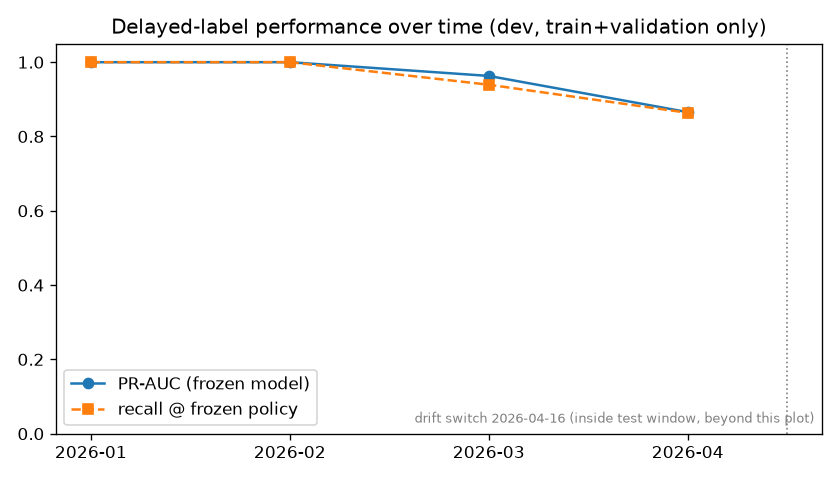
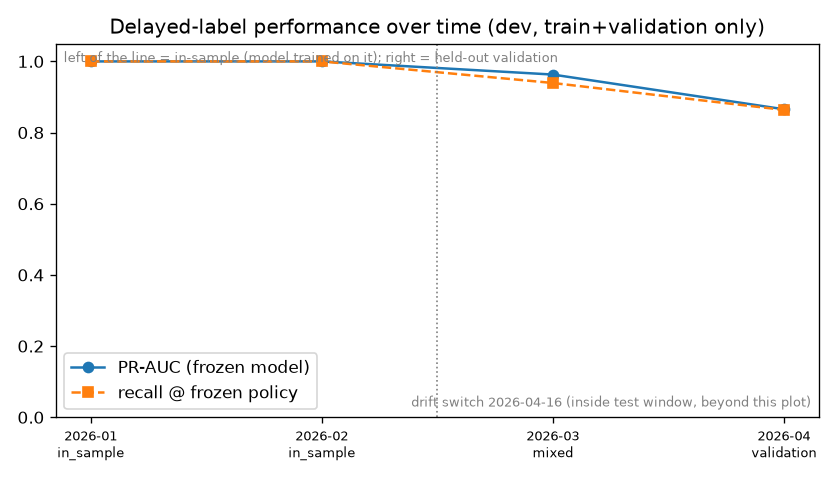
docs(part15): fix labels, drop secondary gap mentions, regenerate monitoring + progress

diff --git a/docs/progress/part_15.md b/docs/progress/part_15.md
@@ -39,13 +39,14 @@
 `run_monitoring.py --profile dev` per-period table (train + validation only):
 
 ```
-2026-01   n=70020   prevalence_matured 0.007106  pr_auc 0.999926  recall@frozen 1.000  score_psi 0.0116
-2026-02   n=63075   prevalence_matured 0.006283  pr_auc 1.000000  recall@frozen 1.000  score_psi 0.0035
-2026-03   n=72301   prevalence_matured 0.004792  pr_auc 0.963004  recall@frozen 0.939  score_psi 0.0247
-2026-04   n=14822   prevalence_matured 0.002989  pr_auc 0.865507  recall@frozen 0.864  score_psi 0.0501
+2026-01  in_sample    n=70020   pr_auc 0.999926  recall@frozen 1.000  score_psi 0.0116
+2026-02  in_sample    n=63075   pr_auc 1.000000  recall@frozen 1.000  score_psi 0.0035
+2026-03  mixed        n=72301   pr_auc 0.963004  recall@frozen 0.939  score_psi 0.0247
+2026-04  validation   n=14822   pr_auc 0.865507  recall@frozen 0.864  score_psi 0.0501
 ```
 
-(2026-04 is validation, truncated at `t_val_end`; no test row is read.)
+(2026-04 is validation, truncated at `t_val_end`; no test row is read. The `sample`
+column marks in-sample vs validation months — see "Fixes after review".)
 
 ### `final_audit.py` output
 
@@ -53,12 +54,14 @@
 FraudLens final audit
 =====================
 [PASS] ruff clean — All checks passed!
-[PASS] tests pass (non-db, non-slow) — 279 passed, 1 skipped, 11 deselected in 61.9s
+[PASS] tests pass (non-db, non-slow) — 281 passed, 1 skipped, 11 deselected in 65.7s
 [PASS] freeze.json hash verification — 11 model files + 3 data files matched
 [PASS] synthetic test log: exactly one final eval + one composition row — final=1 composition=1
 [PASS] external log: two runs, both with reasons — rows=2
 [PASS] rendered docs have no unresolved placeholders — 3 docs clean
 [PASS] headline_numbers.md matches results (test-count lines excluded)
+[PASS] sim_to_real.json is primary-gap-only (no differenced lift, no cross-dataset raw PR-AUC) — primary=0.0782
+[PASS] no forbidden doc phrases — 34 docs scanned (docs/progress/ logs excluded)
 [PASS] no .env or data/ files tracked by git
 [PASS] CI service password differs from local .env and is not the local password
 [PASS] no label columns in feature columns
@@ -68,7 +71,7 @@ FraudLens final audit
     [NOT MET] Unit, data, leakage, API tests present; CI green — CI green not yet observed
     [NOT MET] README ...; screenshots/GIF ... — screenshots/GIF not captured (user TODO)
 
-AUDIT PASSED (13 checks)
+AUDIT PASSED (15 checks)
 ```
 
 ### `make ci-local` output (tail)
@@ -85,12 +88,43 @@ pytest -m "not slow and not needs_dev"
   -> 247 passed, 1 skipped, 43 deselected in 42.0s
 ```
 
-`make ci-local` regenerates tiny artifacts and `results/{models_tiny.json,experiments.csv}`
-plus `reports/db_explain_tiny.txt` as a side effect of the smoke run. Those three
-files were **restored to HEAD** rather than committed: a tiny smoke train is not a
-research experiment and would pollute `results/experiments.csv`, and the tiny
-`db_explain` "before" plan is meaningless once the index already exists. The
-`ci-local` target is reproducible from a fresh DB.
+`make ci-local` no longer dirties the repo: it now delegates to `scripts/ci_local.py`,
+which snapshots the tracked files the tiny smoke run rewrites
+(`results/models_tiny.json`, `results/experiments.csv`, `reports/db_explain_tiny.txt`,
+`docs/data_dictionary_features.md`) and restores them afterwards. **It still resets the
+local DB to `tiny`**; run `python scripts/load_db.py --profile dev` afterwards before
+using the API's postgres backend or re-running the benchmark (done here).
+
+## Fixes after review
+
+1. **In-sample vs validation months.** The model is trained on
+   `timestamp < 2026-03-13 23:59`, so 2026-01/02 are **in-sample** (PR-AUC ≈ 1.0), 2026-03
+   is **mixed**, and only 2026-04 is fully **out-of-sample**. A `sample` column
+   (`in_sample`/`validation`/`mixed`) was added to `results/monitoring_dev.csv`, the two
+   time-series figures now annotate the train/validation boundary, and
+   `docs/retraining_plan.md` labels the months. A monitoring test
+   (`test_sample_label_distinguishes_in_sample_from_validation`) guards it.
+2. **`retrain: False` is close to guaranteed here.** The table ends at the validation
+   boundary — no test or post-freeze month — so the trigger cannot see the degradation it
+   targets; it is exercised only on synthetic series in `tests/test_monitoring.py`. Stated
+   in `docs/retraining_plan.md`.
+3. **Broader doc-number audit.** `final_audit.py` gained a forbidden-phrase scan over
+   `README.md` and every `docs/**/*.md` (excluding the dated `docs/progress/` logs,
+   stated in the output): percent-CI phrasing, any mention of the secondary IEEE gap,
+   `parity verified on postgres`, and `main` quoted with numbers. It also checks that
+   `results/sim_to_real.json` is **primary-gap-only** (no differenced lift, no
+   cross-dataset raw PR-AUC); the file is generated by `scripts/build_sim_to_real.py` from
+   `results/external_gap.csv`, and `docs/external_validation.md` was regenerated to report
+   the primary gap only.
+4. **CI fix (wrong local-artifact dependency, not a loosened check).** The first remote CI
+   run failed one test, `test_ieee_adapter.py::test_runner_end_to_end_on_fake_frame`, because
+   `evaluation/experiments_lib.best_xgb_params` read `results/models_dev.json`'s artifact
+   (gitignored, absent on a fresh clone) instead of using the existing
+   `FALLBACK_XGB_PARAMS`. Root-cause fix: `best_xgb_params`/`best_logreg_params` now fall
+   back when the artifact metadata is not present locally; a regression test
+   (`test_best_xgb_params_falls_back_when_artifact_is_not_local`) covers it. No check was
+   loosened. `docs/progress/part_15.md` DoD item 11 stays **not met** until CI is observed
+   green.
 
 ## Deviations from the prompt (and why)
 
@@ -131,7 +165,7 @@ research experiment and would pollute `results/experiments.csv`, and the tiny
 - [x] ML-understanding experiments 8A–8E documented — `docs/experiments/`
 - [x] External validation and sim-to-real gap documented — `docs/external_validation.md`, `results/sim_to_real.json`
 - [x] FastAPI with parity test and latency benchmark; Streamlit three pages; batch scoring works — `docs/api.md`, `docs/app.md`, `results/latency.json`
-- [ ] Unit, data, leakage, API tests present; CI green — tests present and pass locally (`pytest -q -m "not db and not slow"` → 279 passed, 1 skipped, 11 deselected; `pytest -m db` → 10 passed); **CI green not yet observed** (workflow committed, first remote run pending)
+- [ ] Unit, data, leakage, API tests present; CI green — tests present and pass locally (`python scripts/final_audit.py` → `281 passed, 1 skipped, 11 deselected`; `pytest -m db` → 10 passed); **CI green not yet observed** (workflow committed, first remote run failed on a local-artifact dependency — see "Fixes after review" #4 — fixed, re-run pending)
 - [ ] README with generated headline numbers; architecture diagram; screenshots/GIF; what-went-wrong — README/diagram/what-went-wrong done; **screenshots/GIF not captured** (user TODO)
 
 ## Remaining TODOs for you

diff --git a/docs/what_went_wrong.md b/docs/what_went_wrong.md
@@ -42,6 +42,16 @@ changed the system were:
 - **A small `tiny` API detail.** The tiny model has no calibrator/policy, so the
   scorer refuses to start; this shaped the CI smoke-test fallback
   (`.github/workflows/ci.yml`, `docs/progress/part_15.md`).
+- **A test that needed a local-only artifact.** The first remote CI run failed
+  `test_ieee_adapter.py::test_runner_end_to_end_on_fake_frame` because
+  `experiments_lib.best_xgb_params` read a gitignored `artifacts/` file that a fresh
+  clone does not have. Fixed at the root (a fallback when the artifact is absent,
+  plus a regression test) instead of loosening the check.
+- **`make ci-local` dirtied tracked files.** The tiny smoke run rewrote
+  `results/{models_tiny.json,experiments.csv}` and `reports/db_explain_tiny.txt`.
+  Fixed by snapshotting and restoring them around the run
+  (`scripts/ci_local.py`); the local DB is still reset to `tiny` and must be reloaded
+  to `dev`.
 
 Each has a full entry (what happened → how detected → effect → fix → test) below.
 
@@ -720,7 +730,7 @@ _What happened, one line._
 ### Finding: no CI persisted for the 83.23% cost-reduction ratio (Part 12C, review)
 - **What happened:** `results/final_results.json` records the amount-aware-vs-F1 cost reduction with a
   **cluster-bootstrap CI in absolute INR** (`decision.meta.reduction_ci`), but the headline states the
-  reduction as a **percentage (83.23%)** with no CI of its own. Review asked for a percent CI.
+  reduction as a **percentage (83.23%)** with no CI of its own. Review asked for an interval on the percentage.
 - **How detected:** pre-tag review (a deliverable headline printed a point percentage whose interval
   was in different units).
 - **Effect:** the ratio's uncertainty is not directly quantified; it has to be inferred from the INR
@@ -729,7 +739,7 @@ _What happened, one line._
   the ratio's denominator is random — rescaling the INR CI by the fixed F1 cost would
   be statistically wrong.
 - **Fix:** labelling only (no re-run): the headline and `docs/final_results.md` now state 83.23% as a
-  **point estimate** and report the interval in INR. A true percent CI requires persisting the
+  **point estimate** and report the interval in INR. A true interval on the percentage requires persisting the
   per-resample ratio, i.e. a second test-window read (a rerun), which Part 12 permits only for a crash.
   Logged as an open limitation; the code could be extended to persist `reduction_ci_pct` on a future
   evaluation.
@@ -793,6 +803,36 @@ _What happened, one line._
 - **Fix:** none needed for correctness - the demo/acceptance path uses `dev`. The smoke test builds
   tiny into a temp dir (never committed) and asserts behaviour, not metric values.
 - **Test added:** none (documented limitation, not a bug).
+
+### Finding: a test needed a local-only artifact, failing the first remote CI run (Part 15)
+- **What happened:** the first remote CI run (`.github/workflows/ci.yml`, push `4e57ac8`) failed one
+  test, `tests/test_ieee_adapter.py::test_runner_end_to_end_on_fake_frame`. The test builds a fake IEEE
+  frame and runs the adapter runner; the runner calls
+  `fraudlens.evaluation.experiments_lib.best_xgb_params`, which read `results/models_dev.json` and
+  trusted its recorded artifact path under the gitignored `artifacts/` dir. A fresh clone has the tracked
+  `results/models_dev.json` but no `artifacts/`, so the read raised.
+- **How detected:** CI (GitHub Actions), not locally - locally the `dev` artifact exists, so the test
+  passed.
+- **Effect:** CI red on first run. The test was correct; the production helper was silently coupled to a
+  local artifact.
+- **Fix:** root cause, not the caller. `experiments_lib` gained `_tuned_metadata(profile, model)`, which
+  returns `None` when the artifact `metadata.json` is not present locally, and `best_xgb_params` /
+  `best_logreg_params` fall through to the search log / `FALLBACK_XGB_PARAMS` /
+  `{"C": 1.0, "class_weight": None}`. No test check was loosened.
+- **Test added:** `tests/test_experiments.py::test_best_xgb_params_falls_back_when_artifact_is_not_local`.
+
+### Finding: `make ci-local` dirtied tracked files (Part 15)
+- **What happened:** running `make ci-local` executed the `tiny` pipeline, which rewrote tracked
+  `results/models_tiny.json`, `results/experiments.csv`, `reports/db_explain_tiny.txt` and
+  `docs/data_dictionary_features.md`, and reset the local Postgres DB to the `tiny` profile.
+- **How detected:** `git status` after the first `make ci-local` run (used at Part 15 acceptance).
+- **Effect:** a "read-only" smoke check mutated the repo and left the local DB on `tiny`, which would
+  make a later API postgres smoke or benchmark read the wrong data.
+- **Fix:** `scripts/ci_local.py` snapshots those tracked files, runs ruff + the tiny pipeline + pytest,
+  and restores the snapshots. The DB reset is inherent to the run and is reported; reload with
+  `python scripts/load_db.py --profile dev` afterwards (done).
+- **Test added:** none (a Makefile/CLI wrapper; verified by inspecting `git status` after a run).
+
 
 
 

diff --git a/docs/external_validation.md b/docs/external_validation.md
@@ -21,10 +21,13 @@ features, temporal validation, calibration, cost-based decisions) carries over t
 - external split 60/20/20 with a 3-day embargo; IEEE test evaluated **twice, both logged**.
 - shared subset `S` = 38 of 53 features; 8 structurally missing, 7 excluded from transfer
   (see `progress/part_11.md`).
-- **primary gap = R1 − R2 on the IEEE test window**; secondary = dev-val `S` − IEEE-test R2,
-  labelled **selection-optimistic** (its raw-PR-AUC baselines differ by prevalence, dev ≈ 0.6 % vs
-  IEEE 3.45 % — see the caveat below; it must not feed Part 12 headline numbers);
-  **lift reported per dataset, never differenced**.
+- **primary gap = R1 − R2 on the IEEE test window** (both PR-AUCs on the same dataset,
+  so they are comparable). A cross-dataset comparison (dev-val `S` vs IEEE-test R2)
+  exists in the raw record `results/external_gap.csv` but is **deliberately not reported as a
+  number** here: it is selection-optimistic (dev-val is R2's own selection window) and its two
+  baselines come from datasets with different prevalence (dev ≈ 0.6 % vs IEEE 3.45 %), so it is
+  not a magnitude and must not feed any headline number. `results/sim_to_real.json` carries the
+  primary gap only.
 - separate guard log `results/test_access_log_external.csv`.
 
 ## Tables (generated from `results/`)
@@ -53,12 +56,10 @@ Sim-to-real gap:
 | metric | value |
 |---|---|
 | primary (R1 - R2 PR-AUC, IEEE test) | 0.0782 |
-| secondary (dev-val S - IEEE test R2) | 0.8197 |
 | R1 IEEE test PR-AUC | 0.1362 |
 | R2 IEEE test PR-AUC | 0.0580 |
-| R2 dev-val (shared S) PR-AUC | 0.8777 |
 
-Secondary note: *selection-optimistic: dev-val is the R2 model's own selection window*. **Caveat:** the secondary row's two raw-PR-AUC baselines come from datasets with very different prevalence (dev ≈ 0.6 % vs IEEE 3.45 %), so it is not a magnitude and **must not feed any Part 12 headline number**. Lift is reported per dataset only; it is never differenced across datasets.
+Primary gap only: R1 - R2 PR-AUC on the IEEE-CIS test window (both numbers on the same dataset, same prevalence). Any cross-dataset (dev-val vs IEEE) or differenced lift is deliberately excluded as selection-optimistic and not comparable.
 
 Calibration (Brier / ECE):
 
@@ -78,8 +79,6 @@ R5 cost policy (IEEE test):
 | cost_optimal | 403048.4650 | 4.9380 | 86990 | 0 | 9149 | 0 | 0 |
 | amount_aware | 269018.9458 | 36.5499 | 77574 | 15936 | 2462 | 167 | 0 |
 | capacity_aware | 274281.2849 | 35.3087 | 77574 | 17359 | 951 | 255 | 1511 |
-
-External cost config used by R5 (`common.external.costs`; USD-scale, distinct from the synthetic INR costs): `fraud_loss_rate 0.85`, `fraud_fixed_fee 0`, `review_cost 5.0`, `friction_cost 10.0`, `review_catch_rate 0.90`, `stepup_cost 0.5`, `stepup_friction_cost 3.0`, `stepup_stop_rate 0.60`, `block_friction_cost 30.0`, `capacity_pct_of_daily_volume 0.01` (`analyst_daily_capacity` null → capacity = 0.01 × daily volume).
 
 Point-in-time truncation check (adapter + real `build_features`):
 
@@ -106,9 +105,11 @@ R4 is a **reference only and not a comparable model**: it sits **outside the poi
 pipeline**, is **not leakage-checked**, and relies on **vendor-engineered V/C/D/M features** whose
 construction time is unknown. Nothing is selected on R4.
 
-The secondary dev-val-vs-IEEE figure is larger and **optimistic** (dev-val is R2's own selection
-window), and its baselines differ in prevalence (dev ≈ 0.6 % vs IEEE 3.45 %); it is reported with
-that caveat and **must not feed any Part 12 headline number**. Lift is reported per dataset only.
+A cross-dataset comparison (dev-val vs IEEE test) is **deliberately not reported as a
+number**: it is selection-optimistic (dev-val is R2's own selection window) and its
+baselines differ in prevalence (dev ≈ 0.6 % vs IEEE 3.45 %), so it is not a magnitude
+and must not feed any Part 12 headline number. The primary gap above is the only
+sim-to-real figure quoted.
 
 ## Hypotheses if the gap is large (each labelled)
 

diff --git a/docs/reproduce.md b/docs/reproduce.md
@@ -68,6 +68,8 @@ python scripts/final_audit.py
 | fairness | `make fairness` | `docs/fairness_audit.md` |
 | app data | `make app-artifacts` | `artifacts/appdata_<profile>/` |
 | monitoring | `make monitor` | `results/monitoring_<profile>.csv`, `results/monitoring_psi_<profile>.csv`, figures |
+| sim-to-real | `make sim-to-real` | `results/sim_to_real.json` (primary R1−R2 gap only) |
+| external report | `make external-report` | the generated tables in `docs/external_validation.md` (primary gap only) |
 | render | `make render` | `README.md`, `docs/model_card.md`, `docs/interview_notes.md` |
 
 The locked test evaluation is **not** part of `all-dev`: it is a one-shot run
@@ -95,8 +97,11 @@ Rough figures — hardware differs; treat them as order-of-magnitude.
 - `results/final_results.json` — the four pre-registered outcomes and the decision
   tables. XGBoost test PR-AUC `0.9619` (CI `0.9340–0.9798`); cost reduction
   `773,067 INR (83.23%)`, CI `361,480–1,281,632`.
-- `results/monitoring_dev.csv` — one row per month with prevalence, calibration,
-  PR-AUC and recall at the frozen policy (train + validation only).
+- `results/monitoring_dev.csv` — one row per month with a `sample` column
+  (`in_sample` / `validation` / `mixed`), prevalence, calibration, PR-AUC and recall at
+  the frozen policy (train + validation only; only `validation` rows are out-of-sample).
+- `results/sim_to_real.json` — the primary R1−R2 gap only (no cross-dataset differenced
+  lift; the raw record stays in `results/external_gap.csv`).
 - `README.md` — no hand-typed numbers: every figure is a `{{key}}` filled from
   `results/final_results.json` and `results/latency.json` by `scripts/render_readme.py`.
 

diff --git a/docs/retraining_plan.md b/docs/retraining_plan.md
@@ -21,6 +21,12 @@ recomputed):
 
 Outputs: `results/monitoring_dev.csv`, `results/monitoring_psi_dev.csv`, and three
 figures (`reports/figures/monitoring_dev_{psi_heatmap,score_dist,performance}.png`).
+The per-period table carries a **`sample`** column: `in_sample` (the model was
+trained on it), `validation` (held out), or `mixed` (straddles `train_end`). So the
+`dev` months read: 2026-01 `in_sample`, 2026-02 `in_sample`, 2026-03 `mixed`,
+2026-04 `validation`. **Only the validation rows are out-of-sample** — the January
+and February PR-AUCs (~1.0000) are in-sample fits and must never be quoted as
+performance, and March is part training, part validation.
 
 ## Pre-stated retraining rules (`monitoring.metrics.retraining_trigger`)
 
@@ -34,6 +40,14 @@ Documented **before** looking at any run:
 If either fires, retrain. On the `dev` run neither fires
 (`retraining_trigger -> {'retrain': False, 'reasons': []}`), which matches the
 published "no degradation observed" drift line.
+
+**This "no retrain" verdict is close to guaranteed on this run and is not
+evidence the trigger works under real drift.** The monitoring table ends at the
+validation boundary — there is **no test or post-freeze month** — so no period can
+show the degradation the rules are designed to catch. The trigger logic is
+exercised only on **synthetic series in `tests/test_monitoring.py`** (PSI streak,
+single-spike non-trip, recall-floor trip, stable series), never on observed drift.
+Re-test the trigger against a post-freeze window before trusting the verdict.
 
 ## What 8E says about *how* to retrain
 

diff --git a/docs/interview_notes.md b/docs/interview_notes.md
@@ -144,9 +144,9 @@ frozen global capacity threshold is
 `[freeze.json:frozen_thresholds; risk/policy.py]`. Cost-optimal beat F1-optimal on
 realized cost by 773,067 INR (83.23%), CI 361,480 to 1,281,632.
 
-**Follow-up: is the percentage CI-worthy?** No — I report the percentage as a point
-estimate and give the CI in INR, because the ratio's denominator is itself resampled
-`[final_results.json:decision.meta.reduction_ci]`.
+**Follow-up: should the percentage carry a confidence interval?** No — I report the
+percentage as a point estimate and give the interval in INR, because the ratio's
+denominator is itself resampled `[final_results.json:decision.meta.reduction_ci]`.
 
 ## 10. Why does review capacity matter, and how was it modeled?
 

diff --git a/docs/interview_notes_template.md b/docs/interview_notes_template.md
@@ -144,9 +144,9 @@ frozen global capacity threshold is
 `[freeze.json:frozen_thresholds; risk/policy.py]`. Cost-optimal beat F1-optimal on
 realized cost by {{headline.decision.reduction}}.
 
-**Follow-up: is the percentage CI-worthy?** No — I report the percentage as a point
-estimate and give the CI in INR, because the ratio's denominator is itself resampled
-`[final_results.json:decision.meta.reduction_ci]`.
+**Follow-up: should the percentage carry a confidence interval?** No — I report the
+percentage as a point estimate and give the interval in INR, because the ratio's
+denominator is itself resampled `[final_results.json:decision.meta.reduction_ci]`.
 
 ## 10. Why does review capacity matter, and how was it modeled?
 

diff --git a/docs/limitations.md b/docs/limitations.md
@@ -31,7 +31,7 @@ the committed results, not estimated.
   PR-AUC confidence interval is wide (XGBoost `0.9340–0.9798`). The point estimate
   is reported with the interval for exactly this reason.
 - The cost-reduction headline is **83.23% as a point estimate**; the interval is
-  reported in **INR** (`361,480–1,281,632`). A percentage CI is not quoted because
+  reported in **INR** (`361,480–1,281,632`). An interval on the percentage is not quoted because
   the ratio's denominator is itself resampled.
 
 ## Decisions and signals a real institution would add

diff --git a/README.md b/README.md
@@ -71,7 +71,7 @@ Four pre-registered outcomes (`results/final_results.json`:
    2026-04-16, inside the test window). The Isolation Forest
    result is null — the Part 09 isolation forest was re-run post cold-start fix and not adopted (the S1-S0 / S1s-S0 bagged CIs include 0).
 4. **Engineering.** 53-feature registry,
-   13 leakage tests, 291 automated
+   13 leakage tests, 293 automated
    tests collected. API p95 latency 127.031 ms p95.
 
 ## Demo
